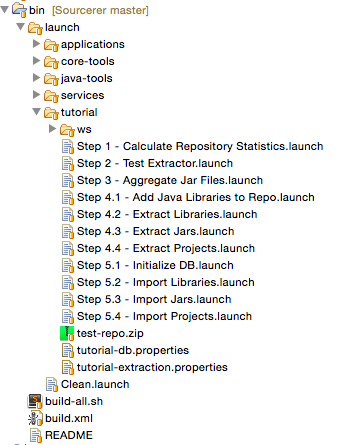
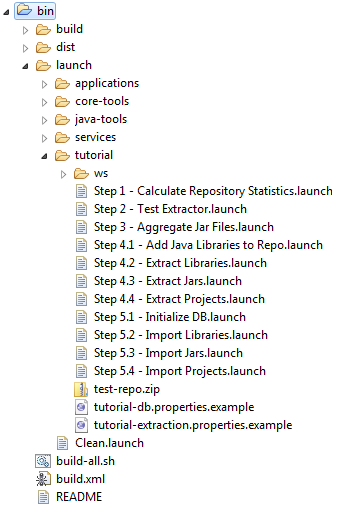
Renamed tutorial properties files to .example, so that customizations can happen without conflicts. Updated the tutorial regarding this. Added news item related to Java 8

Changed region(s): [[0.0, 0.0, 0.9677, 1.0], [0.0293, 0.9933, 0.0587, 1.0]]

diff --git a/website/tutorial-eclipse.html b/website/tutorial-eclipse.html
@@ -54,7 +54,10 @@
 
          <span class="center"><img src="images/eclipse-running.png" alt="example graphic" /></span>
 
-         <p>Before running everything, you need to edit the files <strong>tutorial-extraction.properties</strong> and <strong>tutorial-db.properties</strong>. These files should look like this:</p>
+         <p>Before running anything, you need to copy or rename the files <strong>tutorial-extraction.properties.example</strong> 
+         and <strong>tutorial-db.properties.example</strong> to proper .properties files <strong>tutorial-extraction.properties</strong> 
+         and <strong>tutorial-db.properties</strong>. Then you should edit these and adjust the data in them for your local environment.
+         These files should look something like this:</p>
 
          <h3>tutorial-extraction.properties</h3>
          <p>input-repo=~/crawled-projects/ </br>

diff --git a/website/index.html b/website/index.html
@@ -117,6 +117,11 @@
         <div class="sidebar">
           <h3>Latest News</h3>
           <div class="sidebar_item">
+            <h4>Java 8</h4>
+            <h5>July 31, 2015</h5>
+            <p>The Sourcerer tools can now handle full Java 8.</p>
+          </div>
+          <div class="sidebar_item">
             <h4>New Website</h4>
             <h5>June 11, 2015</h5>
             <p>2015 sees the redesign of Sourcerer website. Take a look around and let us know what you think.</p>
